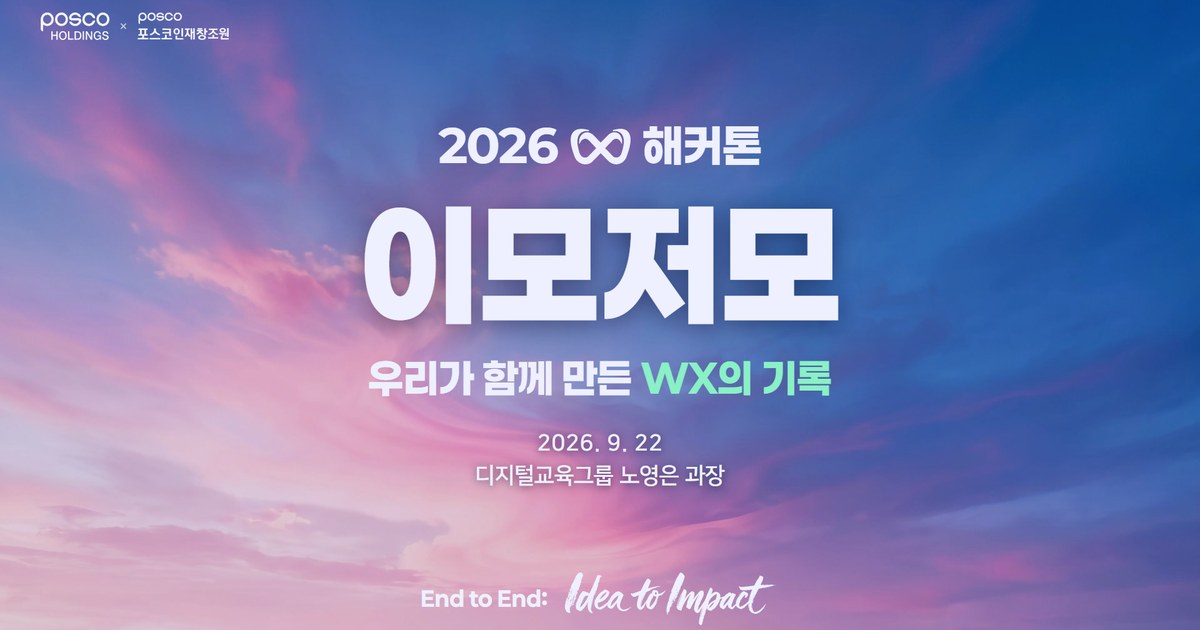
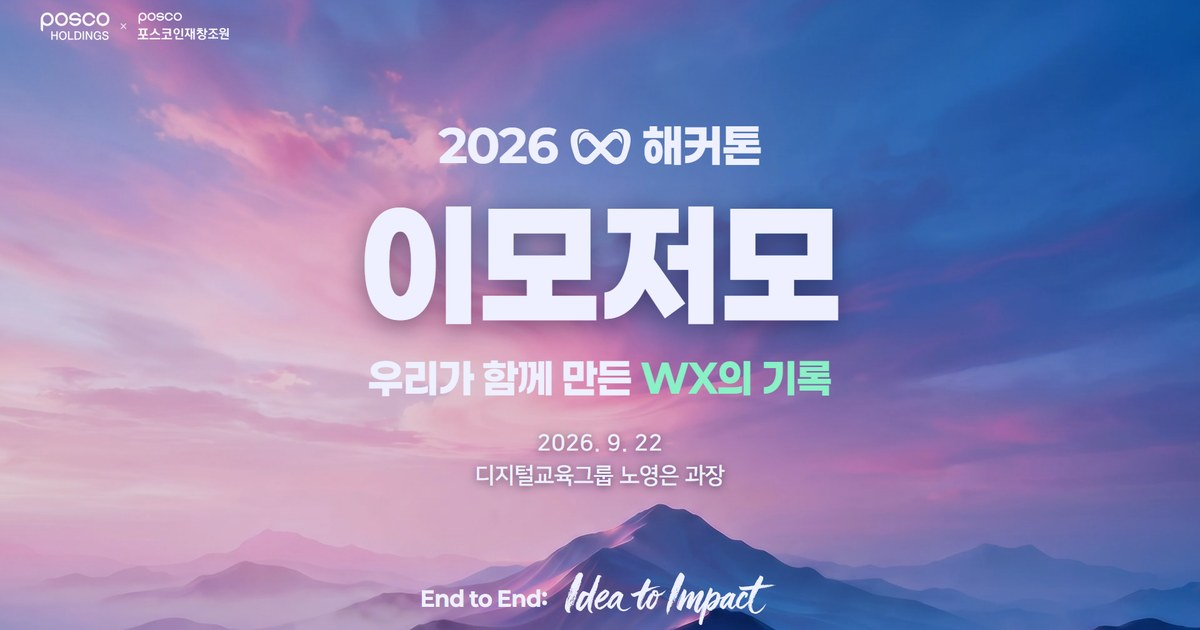
feat(hub): recap 표지 배경 — 산봉우리가 보이게 내리고 잔잔히 오르내림
표지 배경 기준을 -220px 로 내려 봉우리를 드러내고, 위아래 14px 씩 10초 주기로
천천히 움직인다. 링크 미리보기 썸네일도 새 표지로 다시 캡처.

diff --git a/deploy/hub/recap/deck.css b/deploy/hub/recap/deck.css
@@ -25,6 +25,10 @@ p{margin:0}
   transition:opacity .9s var(--ease),background-position 1.4s var(--ease),background-size 1.4s var(--ease)}
 .bg.on{opacity:1}
 .bg.snap{transition:opacity .9s var(--ease)}
+/* 표지 배경 — 산봉우리가 보이게 내린 자리(-220px)를 기준으로 위아래 14px 씩 10초에 한 번 잔잔하게 오르내린다.
+   data-bob 이 붙은 화면에서만 켠다(deck.js). 기준값을 바꾸면 여기 두 값도 함께 바꿀 것. */
+.frame.bob-on .bg.on{animation:bob 10s ease-in-out infinite}
+@keyframes bob{0%,100%{background-position:center -220px}50%{background-position:center -248px}}
 .shade{position:absolute;inset:0;background:var(--void);opacity:.2;transition:opacity 1s var(--ease);pointer-events:none}
 
 /* 로고 바 — 모든 장에서 같은 자리에 고정 */

diff --git a/deploy/hub/recap/index.html b/deploy/hub/recap/index.html
@@ -32,7 +32,7 @@
 
   <!-- ① 표지 · 오프닝 -->
   <section class="slide" data-title="표지 · 오프닝" data-time="1~2분">
-    <div class="view" data-bg="sunset|auto|center 0px|.12" data-cover>
+    <div class="view" data-bg="sunset|auto|center -220px|.12" data-cover data-bob>
       <div class="cover">
         <div class="lockup"><span>2026</span><span class="ci ci-mark"></span><span>해커톤</span></div>
         <div class="big">이모저모</div>

diff --git a/deploy/hub/recap/deck.js b/deploy/hub/recap/deck.js
@@ -87,6 +87,7 @@
     if (!mv.paused && !view.contains(player)) mv.pause();
     setBg(view.dataset.bg);
     frame.classList.toggle('cover-on', view.hasAttribute('data-cover'));
+    frame.classList.toggle('bob-on', view.hasAttribute('data-bob'));
     if (viewChanged) {
       clearTimeout(shownT); shownT = setTimeout(() => view.classList.add('shown'), slideChanged ? 500 : 250);
       if ($('[data-count]', view)) countUp(view);
